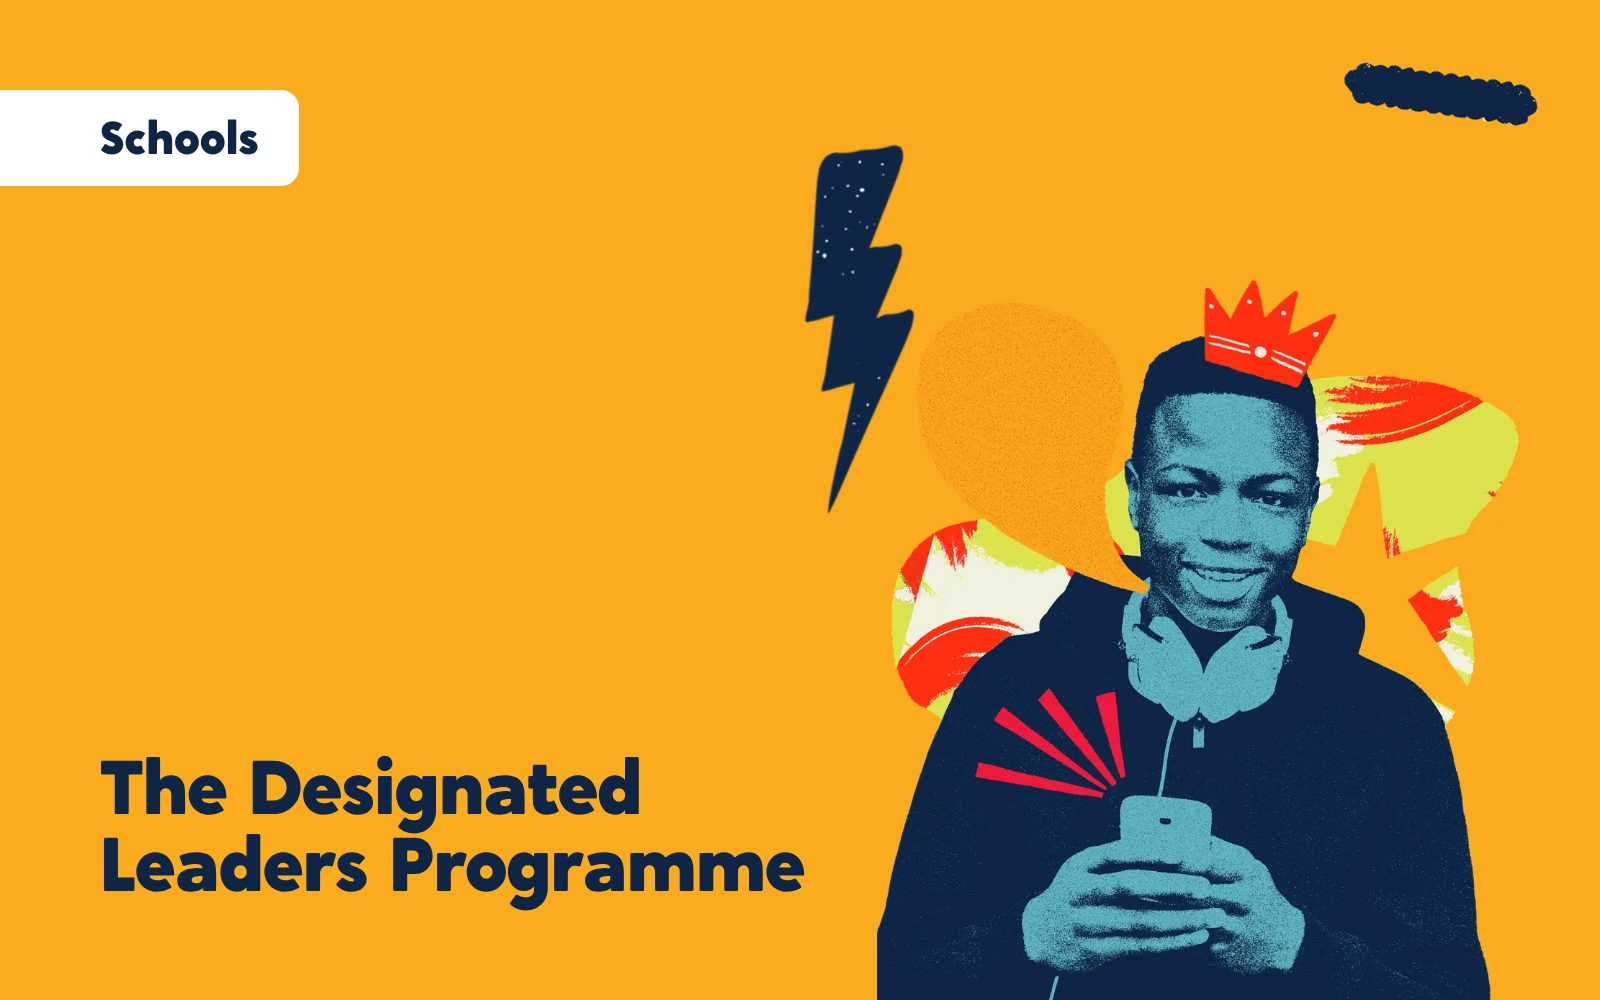
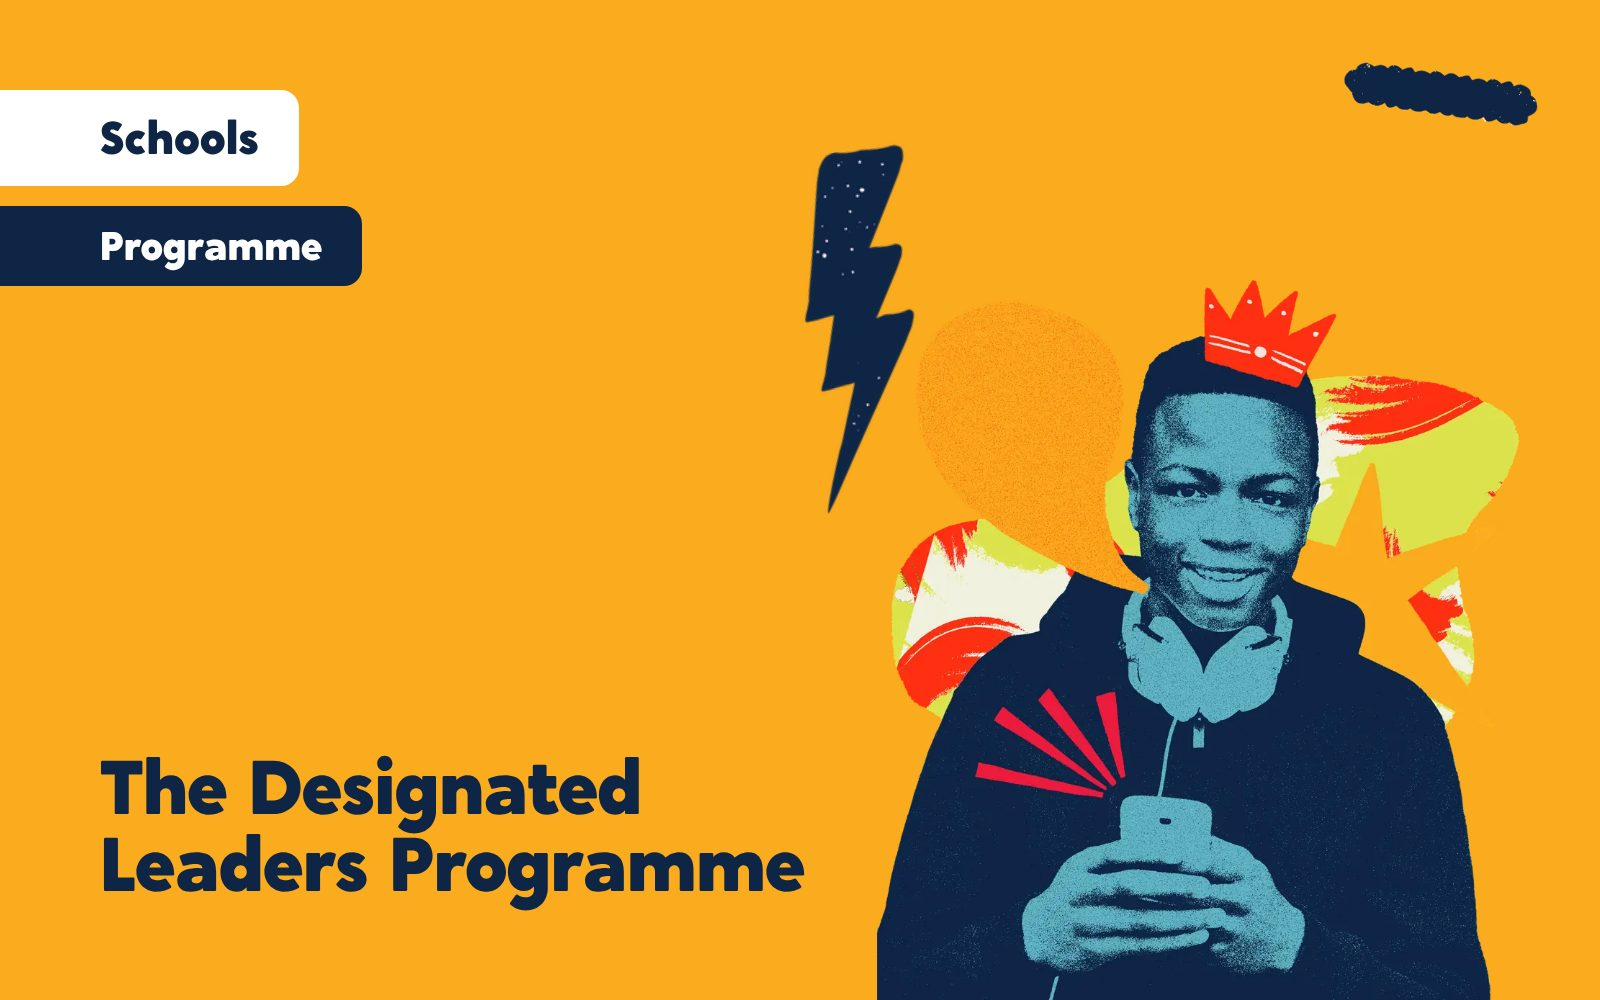
Home page training cards use the category thumbnails; DLP thumbnail says Programme
Claude-Session: https://claude.ai/code/session_01MCpohyGStY6gFxFtJoqhLr

Changed region(s): [[0.0, 0.186, 0.25, 0.31]]

diff --git a/index.html b/index.html
@@ -149,7 +149,7 @@
     <div class="wrap">
       <h2 class="h2">What do you need to change?</h2>
       <p class="h2-sub">Pick the closest match and we&#8217;ll show you where to start.</p>
-      <div class="needs" data-tabs><div class="needs-list" role="tablist" aria-label="What you need"><button role="tab" id="t-redesign" aria-controls="p-redesign" aria-selected="true" tabindex="0"><span>01</span>Redesign or transform a service</button><button role="tab" id="t-voice" aria-controls="p-voice" aria-selected="false" tabindex="-1"><span>02</span>Involve young people in decisions</button><button role="tab" id="t-work" aria-controls="p-work" aria-selected="false" tabindex="-1"><span>03</span>Get care leavers into work</button><button role="tab" id="t-train" aria-controls="p-train" aria-selected="false" tabindex="-1"><span>04</span>Face-to-face training</button><button role="tab" id="t-nvr" aria-controls="p-nvr" aria-selected="false" tabindex="-1"><span>05</span>NVR training</button><button role="tab" id="t-schools" aria-controls="p-schools" aria-selected="false" tabindex="-1"><span>06</span>Support designated teachers</button><button role="tab" id="t-foster" aria-controls="p-foster" aria-selected="false" tabindex="-1"><span>07</span>Recruit and keep foster carers</button><button role="tab" id="t-speak" aria-controls="p-speak" aria-selected="false" tabindex="-1"><span>08</span>Book a keynote speaker</button><button role="tab" id="t-build" aria-controls="p-build" aria-selected="false" tabindex="-1"><span>09</span>Develop care-experienced leaders</button><button role="tab" id="t-online" aria-controls="p-online" aria-selected="false" tabindex="-1"><span>10</span>Online training</button></div><div class="needs-panels"><div role="tabpanel" id="p-redesign" aria-labelledby="t-redesign"><p class="needs-intro"><strong>Redesign or transform a service.</strong> Consultancy to redesign a service with the people it affects.</p><div class="course-grid"><a class="course-card" href="./consultancy-transformation.html"><span class="cc-img cover"><img src="./assets/img/thumbs/a-transformation.jpg" alt="" loading="lazy" width="1600" height="1000"></span><span class="cc-body"><strong>Transformation and service design</strong><span>Redesign a service, write a business case, or hear from everyone a change affects.</span><em>Find out more</em></span></a><a class="course-card" href="./consultancy.html"><span class="cc-img cover"><img src="./assets/img/thumbs/o-consultancy.jpg" alt="" loading="lazy" width="1600" height="1000"></span><span class="cc-body"><strong>Consultancy</strong><span>Change inside your service, led with the people it affects.</span><em>Find out more</em></span></a></div></div><div role="tabpanel" id="p-voice" aria-labelledby="t-voice" hidden><p class="needs-intro"><strong>Involve young people in decisions.</strong> Participation and co-production that changes decisions.</p><div class="course-grid"><a class="course-card" href="./consultancy-participation.html"><span class="cc-img cover"><img src="./assets/img/thumbs/a-participation.jpg" alt="" loading="lazy" width="1600" height="1000"></span><span class="cc-body"><strong>Participation and co-production</strong><span>Youth voice that changes decisions, not just reports.</span><em>Find out more</em></span></a><a class="course-card" href="./care-leaders-academy.html"><span class="cc-img cover"><img src="./assets/img/thumbs/o-academy.jpg" alt="" loading="lazy" width="1600" height="1000"></span><span class="cc-body"><strong>The Care Leaders Academy</strong><span>Leadership for care-experienced young people, 13 to 18.</span><em>Find out more</em></span></a><a class="course-card" href="./consultancy-transformation.html"><span class="cc-img cover"><img src="./assets/img/thumbs/a-transformation.jpg" alt="" loading="lazy" width="1600" height="1000"></span><span class="cc-body"><strong>Transformation and service design</strong><span>Redesign a service, write a business case, or hear from everyone a change affects.</span><em>Find out more</em></span></a></div></div><div role="tabpanel" id="p-work" aria-labelledby="t-work" hidden><p class="needs-intro"><strong>Get care leavers into work.</strong> Work experience, paid roles and employer partnerships.</p><div class="course-grid"><a class="course-card" href="./care-to-work.html"><span class="cc-img cover"><img src="./assets/img/thumbs/o-care-to-work.jpg" alt="" loading="lazy" width="1600" height="1000"></span><span class="cc-body"><strong>Care to Work</strong><span>Work experience at 16 to 18 and paid roles at 18 to 25.</span><em>Find out more</em></span></a><a class="course-card" href="./consultancy-employment.html"><span class="cc-img cover"><img src="./assets/img/thumbs/a-employment.jpg" alt="" loading="lazy" width="1600" height="1000"></span><span class="cc-body"><strong>Employment and pathways</strong><span>Routes into work for care-experienced young people.</span><em>Find out more</em></span></a></div></div><div role="tabpanel" id="p-train" aria-labelledby="t-train" hidden><p class="needs-intro"><strong>Face-to-face training.</strong> Courses delivered in person for your staff, carers or schools.</p><div class="course-grid"><a class="course-card" href="./training.html"><span class="cc-img cover"><img src="./assets/img/thumbs/o-learning.jpg" alt="" loading="lazy" width="1600" height="1000"></span><span class="cc-body"><strong>Training</strong><span>All our training: face to face and online.</span><em>Find out more</em></span></a><a class="course-card" href="./the-journey-through-care.html"><span class="cc-img cover"><img src="./assets/img/thumbs/o-jtc.jpg" alt="" loading="lazy" width="1600" height="1000"></span><span class="cc-body"><strong>The Journey Through Care</strong><span>Our flagship training, through one child&#8217;s story.</span><em>Find out more</em></span></a><a class="course-card" href="./nvr-essentials.html"><span class="cc-img cover"><img src="./assets/img/thumbs/o-nvr-essentials.jpg" alt="" loading="lazy" width="1600" height="1000"></span><span class="cc-body"><strong>NVR Essentials</strong><span>A one-day taster in non-violent resistance.</span><em>Find out more</em></span></a><a class="course-card" href="./good-recording.html"><span class="cc-img cover"><img src="./assets/img/thumbs/o-recording.jpg" alt="" loading="lazy" width="1600" height="1000"></span><span class="cc-body"><strong>A guide to good recording</strong><span>Recording training and a workbook.</span><em>Find out more</em></span></a></div></div><div role="tabpanel" id="p-nvr" aria-labelledby="t-nvr" hidden><p class="needs-intro"><strong>NVR training.</strong> Non-violent resistance: a one-day taster, or a programme for whole teams.</p><div class="course-grid"><a class="course-card" href="./nvr-essentials.html"><span class="cc-img cover"><img src="./assets/img/thumbs/o-nvr-essentials.jpg" alt="" loading="lazy" width="1600" height="1000"></span><span class="cc-body"><strong>NVR Essentials</strong><span>A one-day taster in non-violent resistance.</span><em>Find out more</em></span></a><a class="course-card" href="./nvr-programme.html"><span class="cc-img cover"><img src="./assets/img/thumbs/o-nvr-programme.jpg" alt="" loading="lazy" width="1600" height="1000"></span><span class="cc-body"><strong>NVR Advanced</strong><span>Blended: 3 days of training plus an online course, for whole teams.</span><em>Find out more</em></span></a></div></div><div role="tabpanel" id="p-schools" aria-labelledby="t-schools" hidden><p class="needs-intro"><strong>Support designated teachers.</strong> Leadership and training for designated teachers and schools.</p><div class="course-grid"><a class="course-card" href="./designated-leaders.html"><span class="cc-img cover"><img src="./assets/img/thumbs/o-designated-leaders.jpg" alt="" loading="lazy" width="1600" height="1000"></span><span class="cc-body"><strong>Designated Leaders Programme</strong><span>A year of leadership for designated teachers.</span><em>Find out more</em></span></a><a class="course-card" href="./tools-for-schools.html"><span class="cc-img cover"><img src="./assets/img/thumbs/o-tools-for-schools.jpg" alt="" loading="lazy" width="1600" height="1000"></span><span class="cc-body"><strong>Tools for Schools</strong><span>Reading the messages in children&#8217;s behaviour.</span><em>Find out more</em></span></a></div></div><div role="tabpanel" id="p-foster" aria-labelledby="t-foster" hidden><p class="needs-intro"><strong>Recruit and keep foster carers.</strong> Fostering consultancy with our partner Why Care.</p><div class="course-grid"><a class="course-card" href="./consultancy-fostering.html"><span class="cc-img cover"><img src="./assets/img/thumbs/a-fostering.jpg" alt="" loading="lazy" width="1600" height="1000"></span><span class="cc-body"><strong>Fostering, with Why Care</strong><span>Turn people who want to foster into confident carers who stay, and put the new standards into practice.</span><em>Find out more</em></span></a><a class="course-card" href="./good-recording.html"><span class="cc-img cover"><img src="./assets/img/thumbs/o-recording.jpg" alt="" loading="lazy" width="1600" height="1000"></span><span class="cc-body"><strong>A guide to good recording</strong><span>Recording training and a workbook.</span><em>Find out more</em></span></a></div></div><div role="tabpanel" id="p-speak" aria-labelledby="t-speak" hidden><p class="needs-intro"><strong>Book a keynote speaker.</strong> Luke Rodgers BEM at your conference or event.</p><div class="course-grid"><a class="course-card" href="./keynotes.html"><span class="cc-img cover"><img src="./assets/img/thumbs/o-keynotes.jpg" alt="" loading="lazy" width="1600" height="1000"></span><span class="cc-body"><strong>Keynotes</strong><span>Luke Rodgers BEM at your conference. 7 talks, up to 90 minutes.</span><em>Find out more</em></span></a></div></div><div role="tabpanel" id="p-build" aria-labelledby="t-build" hidden><p class="needs-intro"><strong>Develop care-experienced leaders.</strong> The national Fellowship, or the Academy run locally for young people.</p><div class="course-grid"><a class="course-card" href="./fellowship.html"><span class="cc-img cover"><img src="./assets/img/thumbs/o-fellowship.jpg" alt="" loading="lazy" width="1600" height="1000"></span><span class="cc-body"><strong>The Fellowship</strong><span>12 months of entrepreneurial leadership. Applications open in November.</span><em>Find out more</em></span></a><a class="course-card" href="./care-leaders-academy.html"><span class="cc-img cover"><img src="./assets/img/thumbs/o-academy.jpg" alt="" loading="lazy" width="1600" height="1000"></span><span class="cc-body"><strong>The Care Leaders Academy</strong><span>Leadership for care-experienced young people, 13 to 18.</span><em>Find out more</em></span></a></div></div><div role="tabpanel" id="p-online" aria-labelledby="t-online" hidden><p class="needs-intro"><strong>Online training.</strong> Self-paced CPD your whole workforce can take when it suits them.</p><div class="course-grid"><a class="course-card" href="https://www.thecareleadersonline.com" target="_blank" rel="noopener"><span class="cc-img cover"><img src="./assets/img/thumbs/o-tclo.jpg" alt="" loading="lazy" width="1600" height="1000"></span><span class="cc-body"><strong>The Care Leaders Online</strong><span>Self-paced online CPD for individuals, teams of 5 or more, and whole organisations.</span><em>Find out more</em></span></a></div></div></div></div></div></div></div></div></div></div></div></div></div></div></div></div></div>
+      <div class="needs" data-tabs><div class="needs-list" role="tablist" aria-label="What you need"><button role="tab" id="t-redesign" aria-controls="p-redesign" aria-selected="true" tabindex="0"><span>01</span>Redesign or transform a service</button><button role="tab" id="t-voice" aria-controls="p-voice" aria-selected="false" tabindex="-1"><span>02</span>Involve young people in decisions</button><button role="tab" id="t-work" aria-controls="p-work" aria-selected="false" tabindex="-1"><span>03</span>Get care leavers into work</button><button role="tab" id="t-train" aria-controls="p-train" aria-selected="false" tabindex="-1"><span>04</span>Face-to-face training</button><button role="tab" id="t-nvr" aria-controls="p-nvr" aria-selected="false" tabindex="-1"><span>05</span>NVR training</button><button role="tab" id="t-schools" aria-controls="p-schools" aria-selected="false" tabindex="-1"><span>06</span>Support designated teachers</button><button role="tab" id="t-foster" aria-controls="p-foster" aria-selected="false" tabindex="-1"><span>07</span>Recruit and keep foster carers</button><button role="tab" id="t-speak" aria-controls="p-speak" aria-selected="false" tabindex="-1"><span>08</span>Book a keynote speaker</button><button role="tab" id="t-build" aria-controls="p-build" aria-selected="false" tabindex="-1"><span>09</span>Develop care-experienced leaders</button><button role="tab" id="t-online" aria-controls="p-online" aria-selected="false" tabindex="-1"><span>10</span>Online training</button></div><div class="needs-panels"><div role="tabpanel" id="p-redesign" aria-labelledby="t-redesign"><p class="needs-intro"><strong>Redesign or transform a service.</strong> Consultancy to redesign a service with the people it affects.</p><div class="course-grid"><a class="course-card" href="./consultancy-transformation.html"><span class="cc-img cover"><img src="./assets/img/thumbs/a-transformation.jpg" alt="" loading="lazy" width="1600" height="1000"></span><span class="cc-body"><strong>Transformation and service design</strong><span>Redesign a service, write a business case, or hear from everyone a change affects.</span><em>Find out more</em></span></a><a class="course-card" href="./consultancy.html"><span class="cc-img cover"><img src="./assets/img/thumbs/o-consultancy.jpg" alt="" loading="lazy" width="1600" height="1000"></span><span class="cc-body"><strong>Consultancy</strong><span>Change inside your service, led with the people it affects.</span><em>Find out more</em></span></a></div></div><div role="tabpanel" id="p-voice" aria-labelledby="t-voice" hidden><p class="needs-intro"><strong>Involve young people in decisions.</strong> Participation and co-production that changes decisions.</p><div class="course-grid"><a class="course-card" href="./consultancy-participation.html"><span class="cc-img cover"><img src="./assets/img/thumbs/a-participation.jpg" alt="" loading="lazy" width="1600" height="1000"></span><span class="cc-body"><strong>Participation and co-production</strong><span>Youth voice that changes decisions, not just reports.</span><em>Find out more</em></span></a><a class="course-card" href="./care-leaders-academy.html"><span class="cc-img cover"><img src="./assets/img/thumbs/o-academy.jpg" alt="" loading="lazy" width="1600" height="1000"></span><span class="cc-body"><strong>The Care Leaders Academy</strong><span>Leadership for care-experienced young people, 13 to 18.</span><em>Find out more</em></span></a><a class="course-card" href="./consultancy-transformation.html"><span class="cc-img cover"><img src="./assets/img/thumbs/a-transformation.jpg" alt="" loading="lazy" width="1600" height="1000"></span><span class="cc-body"><strong>Transformation and service design</strong><span>Redesign a service, write a business case, or hear from everyone a change affects.</span><em>Find out more</em></span></a></div></div><div role="tabpanel" id="p-work" aria-labelledby="t-work" hidden><p class="needs-intro"><strong>Get care leavers into work.</strong> Work experience, paid roles and employer partnerships.</p><div class="course-grid"><a class="course-card" href="./care-to-work.html"><span class="cc-img cover"><img src="./assets/img/thumbs/o-care-to-work.jpg" alt="" loading="lazy" width="1600" height="1000"></span><span class="cc-body"><strong>Care to Work</strong><span>Work experience at 16 to 18 and paid roles at 18 to 25.</span><em>Find out more</em></span></a><a class="course-card" href="./consultancy-employment.html"><span class="cc-img cover"><img src="./assets/img/thumbs/a-employment.jpg" alt="" loading="lazy" width="1600" height="1000"></span><span class="cc-body"><strong>Employment and pathways</strong><span>Routes into work for care-experienced young people.</span><em>Find out more</em></span></a></div></div><div role="tabpanel" id="p-train" aria-labelledby="t-train" hidden><p class="needs-intro"><strong>Face-to-face training.</strong> Courses delivered in person for your staff, carers or schools.</p><div class="course-grid"><a class="course-card" href="./training.html"><span class="cc-img cover"><img src="./assets/img/thumbs/o-learning.jpg" alt="" loading="lazy" width="1600" height="1000"></span><span class="cc-body"><strong>Training</strong><span>All our training: face to face and online.</span><em>Find out more</em></span></a><a class="course-card" href="./the-journey-through-care.html"><span class="cc-img cover"><img src="./assets/img/thumbs/t-the-journey-through-care.jpg" alt="" loading="lazy" width="1600" height="1000"></span><span class="cc-body"><strong>The Journey Through Care</strong><span>Our flagship training, through one child&#8217;s story.</span><em>Find out more</em></span></a><a class="course-card" href="./nvr-essentials.html"><span class="cc-img cover"><img src="./assets/img/thumbs/t-nvr-essentials.jpg" alt="" loading="lazy" width="1600" height="1000"></span><span class="cc-body"><strong>NVR Essentials</strong><span>A one-day taster in non-violent resistance.</span><em>Find out more</em></span></a><a class="course-card" href="./good-recording.html"><span class="cc-img cover"><img src="./assets/img/thumbs/t-good-recording.jpg" alt="" loading="lazy" width="1600" height="1000"></span><span class="cc-body"><strong>A guide to good recording</strong><span>Recording training and a workbook.</span><em>Find out more</em></span></a></div></div><div role="tabpanel" id="p-nvr" aria-labelledby="t-nvr" hidden><p class="needs-intro"><strong>NVR training.</strong> Non-violent resistance: a one-day taster, or a programme for whole teams.</p><div class="course-grid"><a class="course-card" href="./nvr-essentials.html"><span class="cc-img cover"><img src="./assets/img/thumbs/t-nvr-essentials.jpg" alt="" loading="lazy" width="1600" height="1000"></span><span class="cc-body"><strong>NVR Essentials</strong><span>A one-day taster in non-violent resistance.</span><em>Find out more</em></span></a><a class="course-card" href="./nvr-programme.html"><span class="cc-img cover"><img src="./assets/img/thumbs/t-nvr-programme.jpg" alt="" loading="lazy" width="1600" height="1000"></span><span class="cc-body"><strong>NVR Advanced</strong><span>Blended: 3 days of training plus an online course, for whole teams.</span><em>Find out more</em></span></a></div></div><div role="tabpanel" id="p-schools" aria-labelledby="t-schools" hidden><p class="needs-intro"><strong>Support designated teachers.</strong> Leadership and training for designated teachers and schools.</p><div class="course-grid"><a class="course-card" href="./designated-leaders.html"><span class="cc-img cover"><img src="./assets/img/thumbs/t-designated-leaders.jpg" alt="" loading="lazy" width="1600" height="1000"></span><span class="cc-body"><strong>Designated Leaders Programme</strong><span>A year of leadership for designated teachers.</span><em>Find out more</em></span></a><a class="course-card" href="./tools-for-schools.html"><span class="cc-img cover"><img src="./assets/img/thumbs/t-tools-for-schools.jpg" alt="" loading="lazy" width="1600" height="1000"></span><span class="cc-body"><strong>Tools for Schools</strong><span>Reading the messages in children&#8217;s behaviour.</span><em>Find out more</em></span></a></div></div><div role="tabpanel" id="p-foster" aria-labelledby="t-foster" hidden><p class="needs-intro"><strong>Recruit and keep foster carers.</strong> Fostering consultancy with our partner Why Care.</p><div class="course-grid"><a class="course-card" href="./consultancy-fostering.html"><span class="cc-img cover"><img src="./assets/img/thumbs/a-fostering.jpg" alt="" loading="lazy" width="1600" height="1000"></span><span class="cc-body"><strong>Fostering, with Why Care</strong><span>Turn people who want to foster into confident carers who stay, and put the new standards into practice.</span><em>Find out more</em></span></a><a class="course-card" href="./good-recording.html"><span class="cc-img cover"><img src="./assets/img/thumbs/t-good-recording.jpg" alt="" loading="lazy" width="1600" height="1000"></span><span class="cc-body"><strong>A guide to good recording</strong><span>Recording training and a workbook.</span><em>Find out more</em></span></a></div></div><div role="tabpanel" id="p-speak" aria-labelledby="t-speak" hidden><p class="needs-intro"><strong>Book a keynote speaker.</strong> Luke Rodgers BEM at your conference or event.</p><div class="course-grid"><a class="course-card" href="./keynotes.html"><span class="cc-img cover"><img src="./assets/img/thumbs/o-keynotes.jpg" alt="" loading="lazy" width="1600" height="1000"></span><span class="cc-body"><strong>Keynotes</strong><span>Luke Rodgers BEM at your conference. 7 talks, up to 90 minutes.</span><em>Find out more</em></span></a></div></div><div role="tabpanel" id="p-build" aria-labelledby="t-build" hidden><p class="needs-intro"><strong>Develop care-experienced leaders.</strong> The national Fellowship, or the Academy run locally for young people.</p><div class="course-grid"><a class="course-card" href="./fellowship.html"><span class="cc-img cover"><img src="./assets/img/thumbs/o-fellowship.jpg" alt="" loading="lazy" width="1600" height="1000"></span><span class="cc-body"><strong>The Fellowship</strong><span>12 months of entrepreneurial leadership. Applications open in November.</span><em>Find out more</em></span></a><a class="course-card" href="./care-leaders-academy.html"><span class="cc-img cover"><img src="./assets/img/thumbs/o-academy.jpg" alt="" loading="lazy" width="1600" height="1000"></span><span class="cc-body"><strong>The Care Leaders Academy</strong><span>Leadership for care-experienced young people, 13 to 18.</span><em>Find out more</em></span></a></div></div><div role="tabpanel" id="p-online" aria-labelledby="t-online" hidden><p class="needs-intro"><strong>Online training.</strong> Self-paced CPD your whole workforce can take when it suits them.</p><div class="course-grid"><a class="course-card" href="https://www.thecareleadersonline.com" target="_blank" rel="noopener"><span class="cc-img cover"><img src="./assets/img/thumbs/t-tclo.jpg" alt="" loading="lazy" width="1600" height="1000"></span><span class="cc-body"><strong>The Care Leaders Online</strong><span>Self-paced online CPD for individuals, teams of 5 or more, and whole organisations.</span><em>Find out more</em></span></a></div></div></div></div></div></div></div></div></div></div></div></div></div></div></div></div></div>
     </div>
   </section>
   <section class="section bg-fill accent-host">
